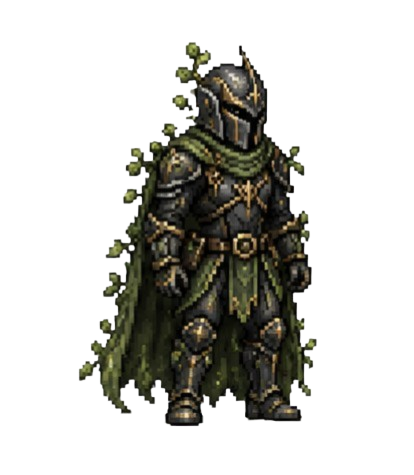
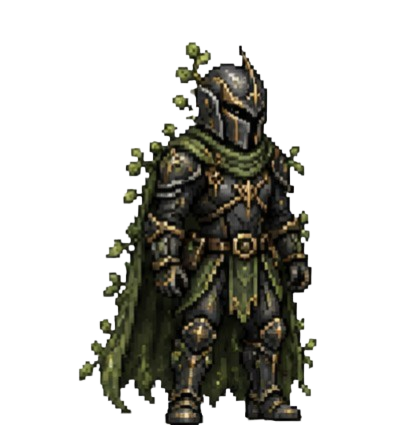
gameover added

Changed region(s): [[0.1739, 0.0918, 0.7826, 1.0]]

diff --git a/src/js/gameover.js b/src/js/gameover.js
@@ -1,0 +1,37 @@
+import { Engine, TextAlign, BaseAlign, Actor, Label, Keys, FontUnit, Vector, Color, Scene, Font } from 'excalibur'
+import { Resources } from './resources.js'
+
+export class GameOver extends Scene {
+
+    onInitialize(engine) {
+        const bg = new Actor({
+            x: engine.screen.resolution.width / 2,
+            y: engine.screen.resolution.height / 2,
+            width: engine.screen.resolution.width,
+            height: engine.screen.resolution.height
+        })
+        bg.graphics.use(Resources.Gameover.toSprite())
+        this.add(bg)
+
+        // een Label is een Actor die automatisch een Text graphic toevoegt.
+        const label = new Label({
+            text: 'GAME OVER\ntry again...',
+            pos: new Vector(engine.screen.resolution.width / 2, engine.screen.resolution.height / 3),
+            font: new Font({
+                unit: FontUnit.Px,
+                family: 'PressStart',
+                size: 80,
+                color: Color.Red,
+                baseAlign: BaseAlign.Top,
+                textAlign: TextAlign.Center
+            })
+        })
+        this.add(label)
+    }
+
+    onPreUpdate(engine, delta) {
+        if (engine.input.keyboard.wasPressed(Keys.Space)) {
+            engine.goToScene('level')
+        }
+    }
+}

diff --git a/src/js/level-one.js b/src/js/level-one.js
@@ -1,27 +1,32 @@
-        // this.knight = new Knight()
-        // this.add(this.Knight)
+// this.knight = new Knight()
+// this.add(this.Knight)
 
 import { Actor, Engine, Vector, ParallaxComponent, Scene } from 'excalibur'
 import { Resources } from "./resources.js"
 import { Knight } from "./knight.js"
+import { Platform } from "./platform.js"
+import { GameOver } from "./gameover.js"
 
 
-export class Level extends Scene {
+export class LevelOne extends Scene {
 
     knight
 
     onInitialize(engine) {
         const bg = new Actor()
-        bg.graphics.use(Resources.Background.toSprite())
-        bg.pos = new Vector(engine.screen.resolution.width / 2, engine.screen.resolution.height / 2)
+        bg.graphics.use(Resources.BG.toSprite())
+        bg.pos = new Vector(engine.screen.resolution.width / 4, engine.screen.resolution.height / 4)
         bg.addComponent(new ParallaxComponent(new Vector(0.5, 0.5)))
         this.add(bg)
-
-        this.addPlatforms()
 
         this.knight = new Knight()
         this.add(this.knight)
         this.camera.strategy.elasticToActor(this.knight, 0.2, 0.6)
-    }
 
+
+        this.add(new Platform(850, 500))
+
+
+
+    }
 }

diff --git a/src/js/platform.js b/src/js/platform.js
@@ -1,0 +1,16 @@
+import { CollisionType, Actor, Vector } from 'excalibur'
+import { Resources } from './resources.js'
+
+export class Platform extends Actor {
+
+    constructor(x, y) {
+        super({ x, y, width: Resources.Platform.width, height: Resources.Platform.height }) // collision box! 
+        this.pos = new Vector(x,y)
+
+    }
+    
+    onInitialize(engine) {
+        this.graphics.use(Resources.Platform.toSprite())
+        this.body.collisionType = CollisionType.Fixed
+    }
+}

diff --git a/src/js/background.js b/src/js/background.js
@@ -1,10 +1,13 @@
-import { Actor, Vector } from "excalibur"
-import { Resources } from './resources.js'
+import { Actor } from "excalibur"
 
 export class Background extends Actor {
-    constructor() {
-        super()
-        this.graphics.use(Resources.BG.toSprite())
-        this.anchor = new Vector(0,0)
+
+    onInitialize(engine) {
+        let sprite = new Sprite({
+            image: Resources.Background,
+            sourceView: { x: 0, y: 0, width: engine.drawWidth, height: engine.drawHeight }
+        })
+        this.anchor = Vector.Zero
+        this.graphics.use(sprite)
     }
 }

diff --git a/src/js/game.js b/src/js/game.js
@@ -1,8 +1,11 @@
 import '../css/style.css'
-import { Actor, Engine, DisplayMode, SolverStrategy, Vector } from "excalibur"
+import { Actor, Engine, DisplayMode, SolverStrategy, Vector, Color } from "excalibur"
 import { Resources, ResourceLoader } from './resources.js'
 import { Background } from './background.js'
 import { Knight } from './knight.js'
+import { Platform } from "./platform.js"
+import { LevelOne } from "./level-one.js"
+import { GameOver } from "./gameover.js"
 
 export class Game extends Engine {
  
@@ -12,6 +15,7 @@ export class Game extends Engine {
         super({
             width: 1600,
             height: 760,
+            backgroundColor: Color.Black,
             displayMode: DisplayMode.FitScreen, 
             suppressHiDPIScaling: true,
             physics: {
@@ -23,8 +27,11 @@ export class Game extends Engine {
     }
 
     startGame() {
-        this.add(new Background())
-        this.add(new Knight())
+        this.add('level-one', new LevelOne())
+        this.add('gameover', new GameOver())
+        this.goToScene('level-one')
+        // this.add(new Background())
+        // this.add(new Knight())
     }
 }
 

diff --git a/src/js/resources.js b/src/js/resources.js
@@ -1,8 +1,11 @@
-import { ImageSource, Sound, Resource, Loader } from 'excalibur'
+import { ImageSource, Sound, Resource, Loader, ImageWrapping } from 'excalibur'
 
 const Resources = {
-    BG: new ImageSource('images/background.jpg'),
-    Knight: new ImageSource('images/knight.png')
+    BG: new ImageSource('images/background.jpg', { wrapping: ImageWrapping.Repeat}),
+    Gameover: new ImageSource('images/Gameover.jpg'),
+    Knight: new ImageSource('images/knight.png'),
+    RunningKnight: new ImageSource('images/running-knight.png'),
+    Platform: new ImageSource('images/platform.png')
 }
 
 const resourceArray = []

diff --git a/src/js/knight.js b/src/js/knight.js
@@ -12,6 +12,7 @@ export class Knight extends Actor {
         this.pos = new Vector(engine.screen.resolution.width / 2, engine.screen.resolution.height / 3)
         this.body.collisionType = CollisionType.Active
         this.body.limitDegreeOfFreedom.push(DegreeOfFreedom.Rotation)
+        this.scale = new Vector(0.5 , 0.5)
     }
 
 
@@ -33,6 +34,10 @@ export class Knight extends Actor {
         }
         this.vel = new Vector(xspeed, this.vel.y)
 
+            if (this.pos.y > 1200) {
+            engine.goToScene('gameover')
+        }
     }
 
 }
+